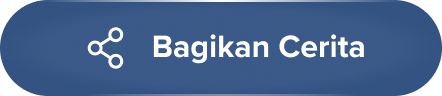
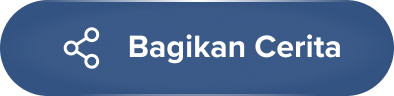
fixing the share issue

diff --git a/app.js b/app.js
@@ -68,6 +68,17 @@ document.addEventListener("DOMContentLoaded", async function () {
     milestones: new Set(), // Track which milestones have been reached
   };
 
+  // Helper function to detect platform
+  const isIOS = () => {
+    const userAgent = navigator.userAgent.toLowerCase();
+    return /iphone|ipad|ipod/.test(userAgent);
+  };
+
+  const isAndroid = () => {
+    const userAgent = navigator.userAgent.toLowerCase();
+    return /android/.test(userAgent);
+  };
+
   // Function to save analytics to database
   const saveAnalytics = async () => {
     if (!uid || !supabase || dataLoadError) return;
@@ -122,8 +133,53 @@ document.addEventListener("DOMContentLoaded", async function () {
           analytics.userName = data.user_name;
         }
 
-        // Save initial analytics (user opened the web)
-        await saveAnalytics();
+        // Fetch existing analytics if available
+        const { data: existingAnalytics } = await supabase
+          .from("user_record")
+          .select("*")
+          .eq("uid", uid)
+          .single();
+
+        if (existingAnalytics) {
+          // Load existing values into analytics object
+          analytics.scrollMilestone = existingAnalytics.scrollMilestone || 0;
+          analytics.isClickShareBtn =
+            existingAnalytics.isClickShareBtn || false;
+          analytics.isClickShareBtnPopUp =
+            existingAnalytics.isClickShareBtnPopUp || false;
+          analytics.isClickingGalleryBtn =
+            existingAnalytics.isClickingGalleryBtn || false;
+          analytics.countWallpaperDownload =
+            existingAnalytics.countWallpaperDownload || 0;
+          analytics.isClickLastBanner =
+            existingAnalytics.isClickLastBanner || false;
+          // Reconstruct milestones set based on current scrollMilestone
+          if (existingAnalytics.scrollMilestone >= 10)
+            analytics.milestones.add(10);
+          if (existingAnalytics.scrollMilestone >= 20)
+            analytics.milestones.add(20);
+          if (existingAnalytics.scrollMilestone >= 30)
+            analytics.milestones.add(30);
+          if (existingAnalytics.scrollMilestone >= 40)
+            analytics.milestones.add(40);
+          if (existingAnalytics.scrollMilestone >= 50)
+            analytics.milestones.add(50);
+          if (existingAnalytics.scrollMilestone >= 60)
+            analytics.milestones.add(60);
+          if (existingAnalytics.scrollMilestone >= 70)
+            analytics.milestones.add(70);
+          if (existingAnalytics.scrollMilestone >= 80)
+            analytics.milestones.add(80);
+          if (existingAnalytics.scrollMilestone >= 90)
+            analytics.milestones.add(90);
+          if (existingAnalytics.scrollMilestone >= 100)
+            analytics.milestones.add(100);
+        }
+
+        // Save initial analytics only if this is a new visit (no existing analytics)
+        if (!existingAnalytics) {
+          await saveAnalytics();
+        }
         if (data.amount_saved !== null && data.amount_saved !== undefined) {
           amountSavedRaw = data.amount_saved;
           amountSaved = `Rp${data.amount_saved.toLocaleString("id-ID", {
@@ -512,34 +568,6 @@ document.addEventListener("DOMContentLoaded", async function () {
       downloadBtn.alt = "Download";
       downloadBtn.className = "wallpaper-download-btn";
 
-      // Download button click handler
-      downloadBtn.addEventListener("click", (e) => {
-        e.stopPropagation(); // Prevent triggering wallpaper image click
-
-        // Track wallpaper click (download button)
-        if (!dataLoadError) {
-          analytics.countWallpaperDownload++;
-          debouncedSave();
-        }
-
-        // Download the wallpaper
-        fetch(wallpaperSrc)
-          .then((response) => response.blob())
-          .then((blob) => {
-            const url = window.URL.createObjectURL(blob);
-            const link = document.createElement("a");
-            link.href = url;
-            link.download = `flip-wallpaper-${index + 1}.png`;
-            document.body.appendChild(link);
-            link.click();
-            document.body.removeChild(link);
-            window.URL.revokeObjectURL(url);
-          })
-          .catch((error) => {
-            console.error("Download failed:", error);
-          });
-      });
-
       // Pre-fetch wallpaper blob for instant sharing (Android compatibility)
       let cachedBlob = null;
       fetch(wallpaperSrc)
@@ -551,26 +579,37 @@ document.addEventListener("DOMContentLoaded", async function () {
           console.error("Failed to cache wallpaper:", error);
         });
 
-      // Share functionality (triggered by clicking the image)
+      // Share functionality (triggered by clicking the image or download button)
       const handleShare = () => {
         // Use cached blob if available (instant share for Android)
         if (cachedBlob) {
-          const file = new File([cachedBlob], `wallpaper-${index + 1}.png`, {
-            type: "image/png",
-          });
+          // Android: Direct download, iOS: Share dialog
+          if (isAndroid()) {
+            // Direct download for Android
+            const url = window.URL.createObjectURL(cachedBlob);
+            const link = document.createElement("a");
+            link.href = url;
+            link.download = `wallpaper-${index + 1}.png`;
+            document.body.appendChild(link);
+            link.click();
+            document.body.removeChild(link);
+            window.URL.revokeObjectURL(url);
+          } else if (isIOS() && navigator.share) {
+            // Share dialog for iOS
+            const file = new File([cachedBlob], `wallpaper-${index + 1}.png`, {
+              type: "image/png",
+            });
 
-          if (navigator.share) {
             navigator
               .share({
                 files: [file],
                 title: "Flip Wallpaper",
-                text: "Wallpaper unik buat kamu yang sedang berjuang",
               })
               .catch((error) => {
                 console.error("Share failed:", error);
               });
           } else {
-            // Fallback: download the image if Web Share API is not supported
+            // Fallback for other platforms
             const url = window.URL.createObjectURL(cachedBlob);
             const link = document.createElement("a");
             link.href = url;
@@ -585,17 +624,28 @@ document.addEventListener("DOMContentLoaded", async function () {
           fetch(wallpaperSrc)
             .then((response) => response.blob())
             .then((blob) => {
-              const file = new File([blob], `wallpaper-${index + 1}.png`, {
-                type: "image/png",
-              });
+              if (isAndroid()) {
+                // Direct download for Android
+                const url = window.URL.createObjectURL(blob);
+                const link = document.createElement("a");
+                link.href = url;
+                link.download = `wallpaper-${index + 1}.png`;
+                document.body.appendChild(link);
+                link.click();
+                document.body.removeChild(link);
+                window.URL.revokeObjectURL(url);
+              } else if (isIOS() && navigator.share) {
+                // Share dialog for iOS
+                const file = new File([blob], `wallpaper-${index + 1}.png`, {
+                  type: "image/png",
+                });
 
-              if (navigator.share) {
                 return navigator.share({
                   files: [file],
                   title: "Flip Wallpaper",
-                  text: "Wallpaper unik buat kamu yang sedang berjuang",
                 });
               } else {
+                // Fallback for other platforms
                 const url = window.URL.createObjectURL(blob);
                 const link = document.createElement("a");
                 link.href = url;
@@ -619,6 +669,20 @@ document.addEventListener("DOMContentLoaded", async function () {
           analytics.countWallpaperDownload++;
           debouncedSave();
         }
+        handleShare();
+      });
+
+      // Download button click handler (same as clicking wallpaper image)
+      downloadBtn.addEventListener("click", (e) => {
+        e.stopPropagation(); // Prevent triggering wallpaper image click
+
+        // Track wallpaper click (download button)
+        if (!dataLoadError) {
+          analytics.countWallpaperDownload++;
+          debouncedSave();
+        }
+
+        // Trigger share (same as clicking the image)
         handleShare();
       });
 
@@ -692,7 +756,8 @@ document.addEventListener("DOMContentLoaded", async function () {
   if (window.uidNotFoundGalleryBtn) {
     window.uidNotFoundGalleryBtn.addEventListener("click", () => {
       galleryPage.classList.add("active");
-      window.uidNotFoundGalleryBtn.src = "assets/navigation/Gallery_btn_home.png";
+      window.uidNotFoundGalleryBtn.src =
+        "assets/navigation/Gallery_btn_home.png";
     });
   }
 
@@ -1456,18 +1521,28 @@ document.addEventListener("DOMContentLoaded", async function () {
         debouncedSave();
       }
 
-      // Convert canvas immediately to avoid async delay breaking Android share
       canvas.toBlob((blob) => {
         if (!blob) {
           console.error("Failed to create blob");
           return;
         }
 
-        const file = new File([blob], "flip-kilas-balik-2025.png", {
-          type: "image/png",
-        });
+        // Android: Direct download, iOS: Share dialog
+        if (isAndroid()) {
+          // Direct download for Android
+          const dataUrl = canvas.toDataURL("image/png");
+          const link = document.createElement("a");
+          link.href = dataUrl;
+          link.download = "flip-kilas-balik-2025.png";
+          document.body.appendChild(link);
+          link.click();
+          document.body.removeChild(link);
+        } else if (isIOS() && navigator.share) {
+          // Share dialog for iOS
+          const file = new File([blob], "flip-kilas-balik-2025.png", {
+            type: "image/png",
+          });
 
-        if (navigator.share) {
           navigator
             .share({
               files: [file],
@@ -1552,25 +1627,50 @@ document.addEventListener("DOMContentLoaded", async function () {
 
     // Track scroll milestones for analytics
     if (!dataLoadError) {
-      const scrollHeight = document.documentElement.scrollHeight - window.innerHeight;
+      const scrollHeight =
+        document.documentElement.scrollHeight - window.innerHeight;
       const scrollPercentage = Math.round((scrollY / scrollHeight) * 100);
 
-      // Update milestone based on scroll percentage
+      // Update milestone based on scroll percentage (10% increments)
       if (scrollPercentage >= 100 && !analytics.milestones.has(100)) {
         analytics.scrollMilestone = 100;
         analytics.milestones.add(100);
         debouncedSave();
-      } else if (scrollPercentage >= 75 && !analytics.milestones.has(75)) {
-        analytics.scrollMilestone = 75;
-        analytics.milestones.add(75);
+      } else if (scrollPercentage >= 90 && !analytics.milestones.has(90)) {
+        analytics.scrollMilestone = 90;
+        analytics.milestones.add(90);
+        debouncedSave();
+      } else if (scrollPercentage >= 80 && !analytics.milestones.has(80)) {
+        analytics.scrollMilestone = 80;
+        analytics.milestones.add(80);
+        debouncedSave();
+      } else if (scrollPercentage >= 70 && !analytics.milestones.has(70)) {
+        analytics.scrollMilestone = 70;
+        analytics.milestones.add(70);
+        debouncedSave();
+      } else if (scrollPercentage >= 60 && !analytics.milestones.has(60)) {
+        analytics.scrollMilestone = 60;
+        analytics.milestones.add(60);
         debouncedSave();
       } else if (scrollPercentage >= 50 && !analytics.milestones.has(50)) {
         analytics.scrollMilestone = 50;
         analytics.milestones.add(50);
         debouncedSave();
-      } else if (scrollPercentage >= 25 && !analytics.milestones.has(25)) {
-        analytics.scrollMilestone = 25;
-        analytics.milestones.add(25);
+      } else if (scrollPercentage >= 40 && !analytics.milestones.has(40)) {
+        analytics.scrollMilestone = 40;
+        analytics.milestones.add(40);
+        debouncedSave();
+      } else if (scrollPercentage >= 30 && !analytics.milestones.has(30)) {
+        analytics.scrollMilestone = 30;
+        analytics.milestones.add(30);
+        debouncedSave();
+      } else if (scrollPercentage >= 20 && !analytics.milestones.has(20)) {
+        analytics.scrollMilestone = 20;
+        analytics.milestones.add(20);
+        debouncedSave();
+      } else if (scrollPercentage >= 10 && !analytics.milestones.has(10)) {
+        analytics.scrollMilestone = 10;
+        analytics.milestones.add(10);
         debouncedSave();
       }
     }

diff --git a/styles.css b/styles.css
@@ -450,6 +450,8 @@ html {
 }
 
 .download-btn-container {
+    width: 52px;
+      height: 52px;
   position: absolute;
   bottom: 12px;
   right: 12px;
